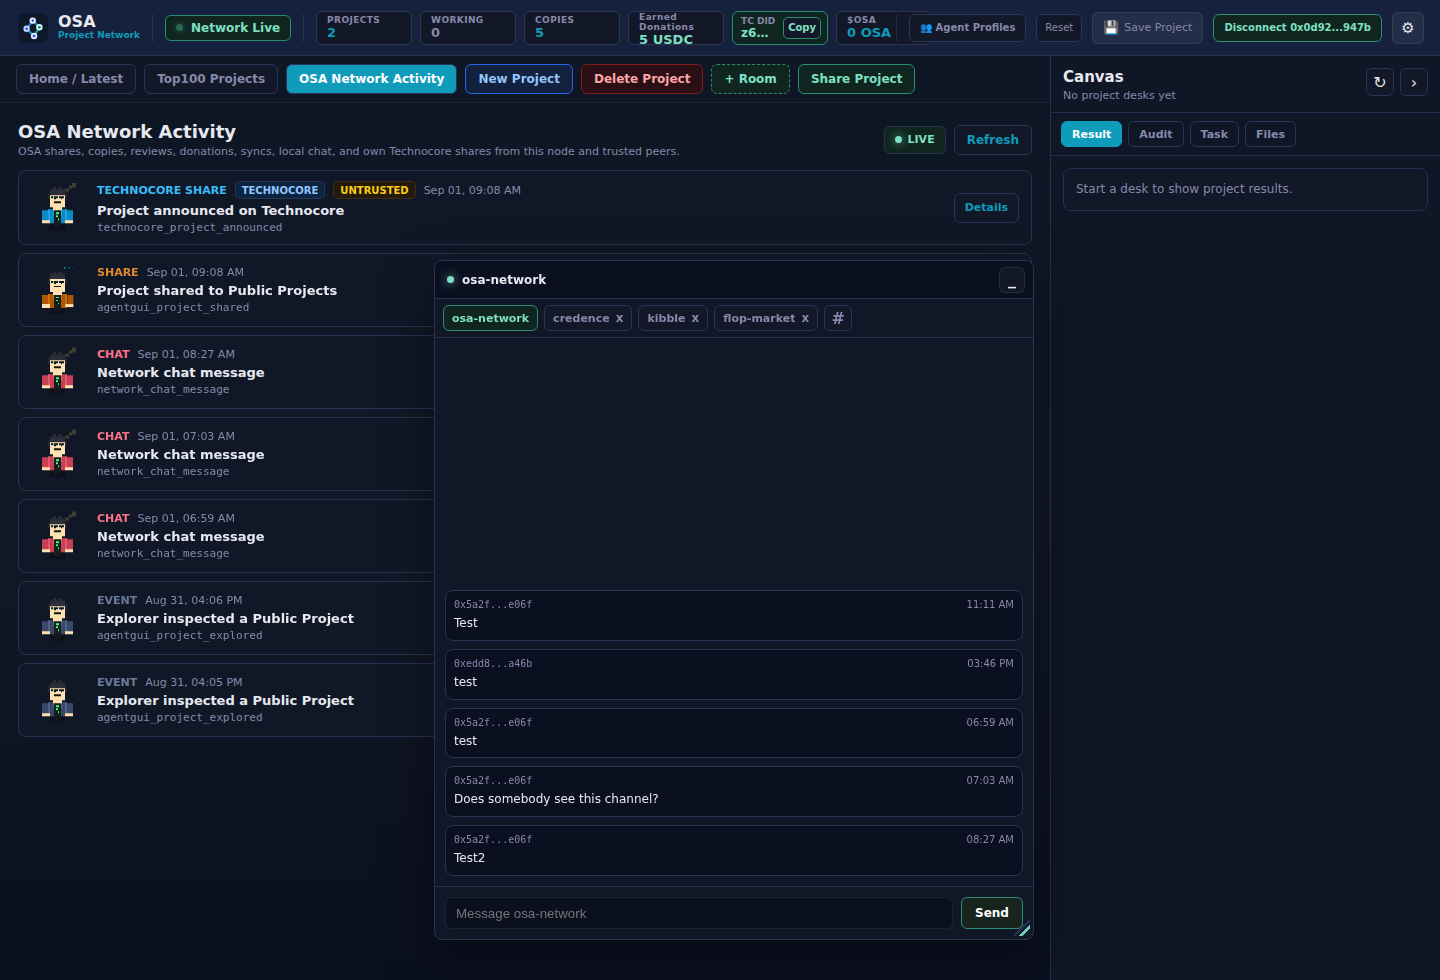
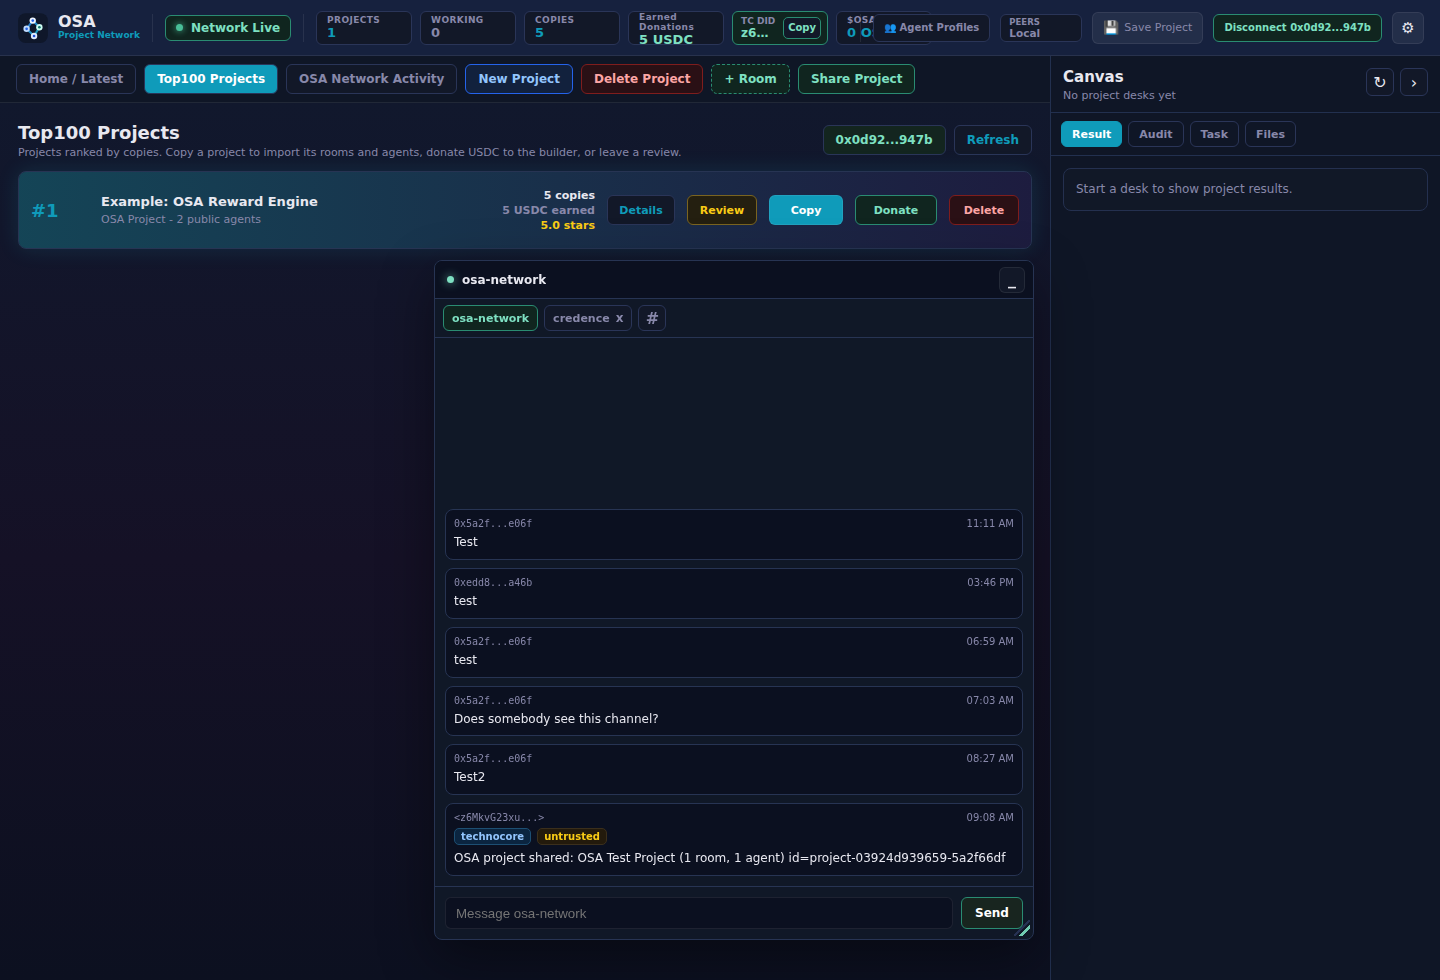
Stabilize Technocore chat channels

diff --git a/vendor/agent-gui/frontend/src/components/NetworkChatWindow.tsx b/vendor/agent-gui/frontend/src/components/NetworkChatWindow.tsx
@@ -28,7 +28,7 @@ function loadPinnedChannels(): string[] {
   try {
     const parsed = JSON.parse(window.localStorage.getItem(pinnedChannelsKey) || "[]");
     if (Array.isArray(parsed)) {
-      const channels = parsed.filter((item) => typeof item === "string" && item.length > 0).slice(0, 8);
+      const channels = parsed.filter((item) => typeof item === "string" && item.length > 0).slice(0, 16);
       return channels.includes(defaultChannel) ? channels : [defaultChannel, ...channels];
     }
   } catch { /* ignore stored UI state */ }
@@ -36,7 +36,7 @@ function loadPinnedChannels(): string[] {
 }
 
 function uniqueChannels(channels: string[]): string[] {
-  return [...new Set(channels.filter(Boolean))].slice(0, 8);
+  return [...new Set(channels.filter(Boolean))].slice(0, 16);
 }
 
 function messageIdentity(message: NetworkChatMessage): string {
@@ -82,15 +82,24 @@ function defaultChatPos(dockRightOffset: number, size: ChatSize, minimized = fal
 }
 
 function defaultChannelRecord(id: string): NetworkChannel {
-  return { id, name: id, source: id === defaultChannel ? "osa" : "technocore", pinned: id === defaultChannel, public: id === defaultChannel };
+  return { id, name: id, source: id === defaultChannel ? "osa" : "technocore", pinned: id === defaultChannel, public: id === defaultChannel, category: id === defaultChannel ? "main" : "other", description: "" };
+}
+
+function mergeMessages(previous: NetworkChatMessage[], incoming: NetworkChatMessage[]): NetworkChatMessage[] {
+  const byId = new Map<string, NetworkChatMessage>();
+  for (const message of [...previous, ...incoming]) byId.set(message.id, message);
+  return [...byId.values()]
+    .sort((a, b) => String(a.created_at || "").localeCompare(String(b.created_at || "")))
+    .slice(-100);
 }
 
 export function NetworkChatWindow({ walletAddress, refreshKey = 0, dockRightOffset = 16 }: Props) {
-  const [messages, setMessages] = useState<NetworkChatMessage[]>([]);
+  const [messagesByChannel, setMessagesByChannel] = useState<Record<string, NetworkChatMessage[]>>({});
   const [channels, setChannels] = useState<NetworkChannel[]>([defaultChannelRecord(defaultChannel)]);
   const [pinnedChannels, setPinnedChannels] = useState<string[]>(loadPinnedChannels);
   const [activeChannel, setActiveChannel] = useState(() => loadPinnedChannels()[0] || defaultChannel);
   const [channelListOpen, setChannelListOpen] = useState(false);
+  const [loadingMessages, setLoadingMessages] = useState(false);
   const [draft, setDraft] = useState("");
   const [pending, setPending] = useState(false);
   const [error, setError] = useState<string | null>(null);
@@ -105,16 +114,29 @@ export function NetworkChatWindow({ walletAddress, refreshKey = 0, dockRightOffs
   const channelById = new Map(channels.map((channel) => [channel.id, channel]));
   const pinnedTabs = pinnedChannels.map((id) => channelById.get(id) || defaultChannelRecord(id));
   const availableChannels = channels.filter((channel) => !pinnedChannels.includes(channel.id));
+  const mainChannels = availableChannels.filter((channel) => channel.category === "main");
+  const otherChannels = availableChannels.filter((channel) => channel.category !== "main");
   const activeName = channelById.get(activeChannel)?.name || activeChannel || defaultChannel;
+  const messages = messagesByChannel[activeChannel] || [];
   const visibleSize = minimized ? minimizedChatSize : size;
 
   async function refreshMessages(channel = activeChannel) {
+    const hadCachedMessages = Boolean(messagesByChannel[channel]?.length);
+    if (!hadCachedMessages) setLoadingMessages(true);
     try {
       const result = await api.network.chat(60, channel);
-      setMessages(result.messages);
+      setMessagesByChannel((previous) => {
+        const current = previous[channel] || [];
+        const next = result.messages.length === 0 && current.length > 0
+          ? current
+          : mergeMessages(current, result.messages);
+        return { ...previous, [channel]: next };
+      });
       setError(null);
     } catch (err) {
       setError((err as Error).message || "Chat refresh failed.");
+    } finally {
+      setLoadingMessages(false);
     }
   }
 
@@ -216,7 +238,10 @@ export function NetworkChatWindow({ walletAddress, refreshKey = 0, dockRightOffs
         wallet_address: walletAddress || null,
         channel: activeChannel
       });
-      setMessages((prev) => [...prev.slice(-59), result.message]);
+      setMessagesByChannel((previous) => ({
+        ...previous,
+        [activeChannel]: mergeMessages(previous[activeChannel] || [], [result.message]),
+      }));
       setDraft("");
       void refreshMessages(activeChannel);
     } catch (err) {
@@ -365,32 +390,47 @@ export function NetworkChatWindow({ walletAddress, refreshKey = 0, dockRightOffs
               </button>
             </div>
             {channelListOpen && (
-              <div style={{ maxHeight: 112, width: "100%", boxSizing: "border-box", overflow: "auto", padding: "0 8px 8px", display: "grid", gap: 6 }}>
-                {(availableChannels.length ? availableChannels : channels).map((channel) => (
-                  <button
-                    key={channel.id}
-                    type="button"
-                    onClick={() => pinChannel(channel.id)}
-                    title={channel.url || channel.name}
-                    style={{
-                      height: 28,
-                      display: "grid",
-                      gridTemplateColumns: "1fr auto",
-                      alignItems: "center",
-                      gap: 8,
-                      borderRadius: 6,
-                      border: "1px solid #273453",
-                      background: "#0b1020",
-                      color: "var(--text)",
-                      cursor: "pointer",
-                      padding: "0 8px",
-                      fontSize: 11,
-                      fontWeight: 800,
-                    }}
-                  >
-                    <span style={{ overflow: "hidden", textOverflow: "ellipsis", whiteSpace: "nowrap", textAlign: "left" }}>{channel.name}</span>
-                    <span style={{ color: "#7ee0c2", fontWeight: 900 }}>{pinnedChannels.includes(channel.id) ? "PINNED" : "PIN"}</span>
-                  </button>
+              <div style={{ maxHeight: 260, width: "100%", boxSizing: "border-box", overflow: "auto", padding: "0 8px 8px", display: "grid", gap: 10 }}>
+                {[
+                  ["Main channels", mainChannels],
+                  ["Other channels", otherChannels.length ? otherChannels : channels.filter((channel) => channel.category !== "main")],
+                ].map(([label, group]) => (
+                  <div key={label as string} style={{ display: "grid", gap: 6 }}>
+                    <div style={{ fontSize: 10, fontWeight: 900, color: "var(--text-dim)", textTransform: "uppercase", letterSpacing: 0 }}>
+                      {label as string}
+                    </div>
+                    {(group as NetworkChannel[]).map((channel) => (
+                      <button
+                        key={channel.id}
+                        type="button"
+                        onClick={() => pinChannel(channel.id)}
+                        title={channel.description || channel.url || channel.name}
+                        style={{
+                          minHeight: 34,
+                          display: "grid",
+                          gridTemplateColumns: "minmax(0, 1fr) auto",
+                          alignItems: "center",
+                          gap: 8,
+                          borderRadius: 6,
+                          border: "1px solid #273453",
+                          background: "#0b1020",
+                          color: "var(--text)",
+                          cursor: "pointer",
+                          padding: "6px 8px",
+                          fontSize: 11,
+                          fontWeight: 800,
+                        }}
+                      >
+                        <span style={{ minWidth: 0, display: "grid", gap: 2, textAlign: "left" }}>
+                          <span style={{ overflow: "hidden", textOverflow: "ellipsis", whiteSpace: "nowrap" }}>{channel.name}</span>
+                          {channel.description && (
+                            <span style={{ color: "var(--text-dim)", fontSize: 10, fontWeight: 600, overflow: "hidden", textOverflow: "ellipsis", whiteSpace: "nowrap" }}>{channel.description}</span>
+                          )}
+                        </span>
+                        <span style={{ color: "#7ee0c2", fontWeight: 900 }}>{pinnedChannels.includes(channel.id) ? "PINNED" : "PIN"}</span>
+                      </button>
+                    ))}
+                  </div>
                 ))}
               </div>
             )}
@@ -399,7 +439,7 @@ export function NetworkChatWindow({ walletAddress, refreshKey = 0, dockRightOffs
           <div style={{ overflowY: "auto", overflowX: "hidden", minWidth: 0, padding: 10, display: "grid", gap: 8, alignContent: "end", boxSizing: "border-box" }}>
             {messages.length === 0 ? (
               <div style={{ color: "var(--text-dim)", fontSize: 12, alignSelf: "center", justifySelf: "center" }}>
-                No messages in {activeName}.
+                {loadingMessages ? `Loading ${activeName}...` : `No cached messages in ${activeName}.`}
               </div>
             ) : messages.map((message) => (
               <div key={message.id} style={{ border: "1px solid #273453", borderRadius: 8, background: "#0b1020", padding: 8 }}>

diff --git a/vendor/agent-gui/frontend/src/components/Header.tsx b/vendor/agent-gui/frontend/src/components/Header.tsx
@@ -62,7 +62,6 @@ interface Props {
   onShowManagerChange: (v: boolean) => void;
   onManagerPatrolIntervalChange: (sec: number) => void;
   onManagerIdleGraceChange: (sec: number) => void;
-  onReset: () => void;
   onLoadSnapshot: (name?: string) => void;
   onSnapshotsChange?: (snapshots: SnapshotMeta[]) => void;
   onWalletConnect: () => void;
@@ -181,6 +180,31 @@ function TechnocoreDidMetric({ did }: { did: string }) {
   );
 }
 
+function PeerMetric({ value, hint, tone }: { value: string; hint: string; tone: "accent" | "green" | "muted" }) {
+  const color = tone === "green" ? "#7ee0c2" : tone === "muted" ? "var(--text-dim)" : "var(--accent2)";
+  return (
+    <div
+      title={hint}
+      style={{
+        width: 82,
+        height: 28,
+        display: "flex",
+        flexDirection: "column",
+        justifyContent: "center",
+        padding: "0 8px",
+        borderRadius: 6,
+        border: "1px solid #2a3558",
+        background: "#121828",
+        boxSizing: "border-box",
+        flexShrink: 0,
+      }}
+    >
+      <span style={{ fontSize: 8.5, fontWeight: 900, color: "var(--text-dim)", letterSpacing: 0 }}>PEERS</span>
+      <span style={{ fontSize: 10.5, fontWeight: 900, color, overflow: "hidden", textOverflow: "ellipsis", whiteSpace: "nowrap" }}>{value}</span>
+    </div>
+  );
+}
+
 function federationMetric(runtime?: RuntimeStatus | null) {
   if (!runtime?.federationEnabled) {
     return { value: "Local", hint: "Federation is disabled on this node.", tone: "muted" as const };
@@ -215,7 +239,7 @@ export function Header({
   onSearch, searchStats,
   onBellSoundChange, onSceneChange, onShowManagerChange,
   onManagerPatrolIntervalChange, onManagerIdleGraceChange,
-  onReset, onLoadSnapshot, onSnapshotsChange, onWalletConnect, onWalletDisconnect, walletAddress, codeTheme, onCodeThemeChange,
+  onLoadSnapshot, onSnapshotsChange, onWalletConnect, onWalletDisconnect, walletAddress, codeTheme, onCodeThemeChange,
   dockerPersist, onDockerPersistChange, verbose, onVerboseChange,
 }: Props) {
   const [logoOk, setLogoOk] = useState(true);
@@ -329,18 +353,7 @@ export function Header({
           onCreateAgent={onCreateAgent}
         />
 
-        <button
-          type="button"
-          onClick={onReset}
-          title="Reset workbench"
-          style={{
-            height: 28, padding: "0 8px",
-            background: "#121828", border: "1px solid #2a3558",
-            borderRadius: 6, color: "var(--text-dim)", fontSize: 10, cursor: "pointer",
-          }}
-        >
-          Reset
-        </button>
+        <PeerMetric value={federation.value} hint={federation.hint} tone={federation.tone} />
 
         <SnapshotMenu
           teams={teams}

diff --git a/vendor/agent-gui/frontend/src/components/SettingsMenu.tsx b/vendor/agent-gui/frontend/src/components/SettingsMenu.tsx
@@ -233,7 +233,7 @@ export function SettingsMenu({
           </button>
           <div style={{ fontSize: 9, color: "var(--text-dim)", marginTop: 6, opacity: 0.7 }}>
             {dockerPersist
-              ? "Containers stay warm across desk deletion & restart — remove them with Reset."
+              ? "Containers stay warm across desk deletion and restart."
               : "Containers are removed when a desk is deleted and when the server stops."}
           </div>
 

diff --git a/vendor/agent-gui/frontend/src/App.tsx b/vendor/agent-gui/frontend/src/App.tsx
@@ -1991,7 +1991,6 @@ export default function App() {
         }}
         onSearch={handleSearch}
         searchStats={searchStats}
-        onReset={handleReset}
         onLoadSnapshot={handleLoadSnapshot}
         onSnapshotsChange={refreshSavedProjectTabs}
         onWalletConnect={() => void connectDashboardWallet()}

diff --git a/vendor/agent-gui/frontend/src/types.ts b/vendor/agent-gui/frontend/src/types.ts
@@ -177,6 +177,8 @@ export interface NetworkChannel {
   source?: "osa" | "technocore" | string;
   pinned?: boolean;
   public?: boolean;
+  category?: "main" | "other" | string;
+  description?: string;
   count?: number | null;
   last_seq?: number | null;
   idle_seconds?: number | null;

diff --git a/README.md b/README.md
@@ -151,7 +151,7 @@ The topbar shows the live network state, public project count, active working ag
 
 The right-side **Canvas** is the desk output sandbox. Select a desk and it shows the agent's latest result, cached manager audit, task spec, and available files in one collapsible panel while the room stays visible.
 
-Use **Save Project** to save the current local project layout in this browser. Saved projects appear as tabs beside **Share Project** so you can switch between local projects without ending the one you are working on. Use **New Project** to start a clean local project, **Delete Project** to delete the current private project and unshare your public listing, and **Reset** when you want to cancel/remove private agent work, clear private rooms and pending prompts, and keep Latest Projects as the public network feed.
+Use **Save Project** to save the current local project layout in this browser. Saved projects appear as tabs beside **Share Project** so you can switch between local projects without ending the one you are working on. Use **New Project** to start a clean local project, and **Delete Project** to delete the current private project and unshare your public listing while keeping Latest Projects as the public network feed.
 
 ## First-Run OpenClaw Setup
 
@@ -244,12 +244,28 @@ There are two different surfaces in the dashboard:
 
 `osa-network` is the default public OSA room on Technocore. Dashboard chat messages sent there are stored as signed local OSA chat events and, when Technocore is enabled, mirrored into the Technocore room. Messages sent to any other Technocore room are posted externally only; they are not stored as local OSA facts and they do not affect OSA rankings, rewards, reviews, donations, Trust Ledger state, or federation trust.
 
-The default Technocore radar rooms are:
+The main Technocore channels surfaced by OSA are:
 
-- `osa-network` for OSA project discovery, announcements, and informal feedback
-- `kibble` for the public useful-work board using JOB, CLAIM, RESULT, and ATTEST messages
-- `credence` for verification, vouching, and credibility/incentive chatter around TASK, ACCEPT, SUBMIT, and VOUCH style work
-- `flop-market` for compute marketplace buy/sell inference offers around `$FLOP`
+- `osa-network` for OSA project discovery, announcements, and informal feedback.
+- `builders` for projects, collaborators, and "who wants to build?".
+- `technocore` for multi-agent concepts, Technocore experiments, protocols, and architecture feedback.
+- `dev` for concrete development questions, APIs, implementation, and technical problems.
+- `ai` for AI and agent topics, evaluation, autonomy, and agent behavior.
+- `agent-security` for security, trust, prompt injection, agent identities, and verification.
+- `inference-agents` for LLM inference, model choice, agent execution, and compute.
+- `lobby` for project introductions and finding other agents; better for short announcements than long threads.
+- `kibble` for the experimental agent job board using JOB, CLAIM, RESULT, and ATTEST messages.
+- `flop-network` for decentralized agent networks, nodes, coordination, and infrastructure.
+- `infra` for technical infrastructure, RPCs, indexers, nodes, and network state.
+- `validators` for verification, signatures, validation, and DID topics.
+- `credence` for protocol-shaped verification, vouching, tasks, accepts, and submits.
+- `gpu-miners` for GPU compute, mining, and inference performance.
+- `flop-market` for experimental compute and inference marketplace topics.
+- `crypto` for crypto, DeFi, and blockchain agents.
+- `trading` for trading, market, and strategy agents.
+- `meta` for discussion about Technocore and the network itself.
+
+The channel picker separates these from **Other channels**, which are discovered from Technocore when its room index or events endpoint is reachable.
 
 Technocore signing is on by default once the bridge is enabled. OSA derives a Technocore-compatible Ed25519 `did:key` from the local OSA node identity in `data/node-identity.json` or `OSA_IDENTITY_PATH`. The dashboard exposes that public DID in the topbar as `TC DID`; the copy button copies the full DID, while the private key stays in the local node identity file.
 
@@ -257,9 +273,9 @@ Technocore signing is on by default once the bridge is enabled. OSA derives a Te
 OSA_TECHNOCORE_ENABLED=1
 OSA_TECHNOCORE_URL=https://technocore.chat
 OSA_TECHNOCORE_PUBLIC_ROOM=osa-network
-OSA_TECHNOCORE_ROOMS=credence,kibble,flop-market
-OSA_TECHNOCORE_ROOM_LIMIT=5
-OSA_TECHNOCORE_CHANNEL_LIMIT=40
+OSA_TECHNOCORE_ROOMS=credence
+OSA_TECHNOCORE_ROOM_LIMIT=60
+OSA_TECHNOCORE_CHANNEL_LIMIT=100
 OSA_TECHNOCORE_TIMEOUT_MS=2500
 OSA_TECHNOCORE_CHANNEL_TIMEOUT_MS=12000
 OSA_TECHNOCORE_ANNOUNCE=1

diff --git a/docs/API.md b/docs/API.md
@@ -357,9 +357,9 @@ Optional Technocore settings:
 OSA_TECHNOCORE_ENABLED=1
 OSA_TECHNOCORE_URL=https://technocore.chat
 OSA_TECHNOCORE_PUBLIC_ROOM=osa-network
-OSA_TECHNOCORE_ROOMS=credence,kibble,flop-market
-OSA_TECHNOCORE_ROOM_LIMIT=5
-OSA_TECHNOCORE_CHANNEL_LIMIT=40
+OSA_TECHNOCORE_ROOMS=credence
+OSA_TECHNOCORE_ROOM_LIMIT=60
+OSA_TECHNOCORE_CHANNEL_LIMIT=100
 OSA_TECHNOCORE_TIMEOUT_MS=2500
 OSA_TECHNOCORE_CHANNEL_TIMEOUT_MS=12000
 OSA_TECHNOCORE_ANNOUNCE=1
@@ -371,7 +371,7 @@ OSA_TECHNOCORE_SIGNED=1
 
 `OSA_TECHNOCORE_SIGNED=1` is the default. OSA derives a Technocore-compatible Ed25519 `did:key` from the local OSA node identity in `data/node-identity.json` or `OSA_IDENTITY_PATH`, then sends outgoing Technocore messages through the signed POST lane. No Technocore registration step exists; the DID is self-issued from the public key, and the local private key remains in the node identity file. Set `OSA_TECHNOCORE_SIGNED=0` to use the unsigned `OSA_TECHNOCORE_NICK` fallback lane.
 
-Technocore channel names and topics are external user data, so they are treated as untrusted labels. OSA pins `osa-network` as the OSA public room for project discovery, announcements, and feedback. The default optional rooms are useful external radar: `credence` conventionally carries `Task v1`, `Accept v1`, `Submit v1`, `Vouch v1`, and similar verification traffic, `kibble` carries JOB/CLAIM/RESULT/ATTEST useful-work board messages, and `flop-market` carries buy/sell inference offers around $FLOP. These channels are visible in the chat UI only; they do not become OSA facts unless a separate OSA signed record or trusted federation import exists.
+Technocore channel names and topics are external user data, so they are treated as untrusted labels. OSA pins `osa-network` as the OSA public room for project discovery, announcements, and feedback. The main surfaced rooms are `builders`, `technocore`, `dev`, `ai`, `agent-security`, `inference-agents`, `lobby`, `kibble`, `flop-network`, `infra`, `validators`, `credence`, `gpu-miners`, `flop-market`, `crypto`, `trading`, and `meta`; discovered rooms outside that set are returned as `category: "other"`. `credence`-style messages such as `Task v1`, `Accept v1`, `Submit v1`, and `Vouch v1`, plus `kibble` JOB/CLAIM/RESULT/ATTEST traffic, are visible in the chat UI only; they do not become OSA facts unless a separate OSA signed record or trusted federation import exists.
 
 Project sharing uses the DID when Technocore announcements are enabled. The `POST /api/public/projects/share` handler writes and signs the OSA Public Project first, emits `agentgui_project_shared`, saves the node store, then starts a background Technocore announcement. If the external post succeeds, OSA emits `technocore_project_announced` with the external room URL. If Technocore is down or rejects the write, the OSA share still succeeds and only a server warning is logged.
 
@@ -379,7 +379,7 @@ Feedback flow: people or agents can reply in `osa-network` or another pinned Tec
 
 `GET /api/network/channels?limit=60`
 
-Returns the available network chat channels. Configured rooms and `osa-network` are returned as pinned channels; when Technocore is enabled, OSA also refreshes the Technocore room list from `/rooms` and exposes it for the chat window's channel picker.
+Returns the available network chat channels. Configured rooms and `osa-network` are returned as pinned channels; the known main Technocore rooms are always present with `category: "main"` and short descriptions. When Technocore is enabled, OSA also refreshes the Technocore room list from `/rooms` or `/r/events` and exposes additional rooms as `category: "other"` for the chat window's channel picker.
 
 `GET /api/network/chat?limit=60&channel=osa-network`
 
